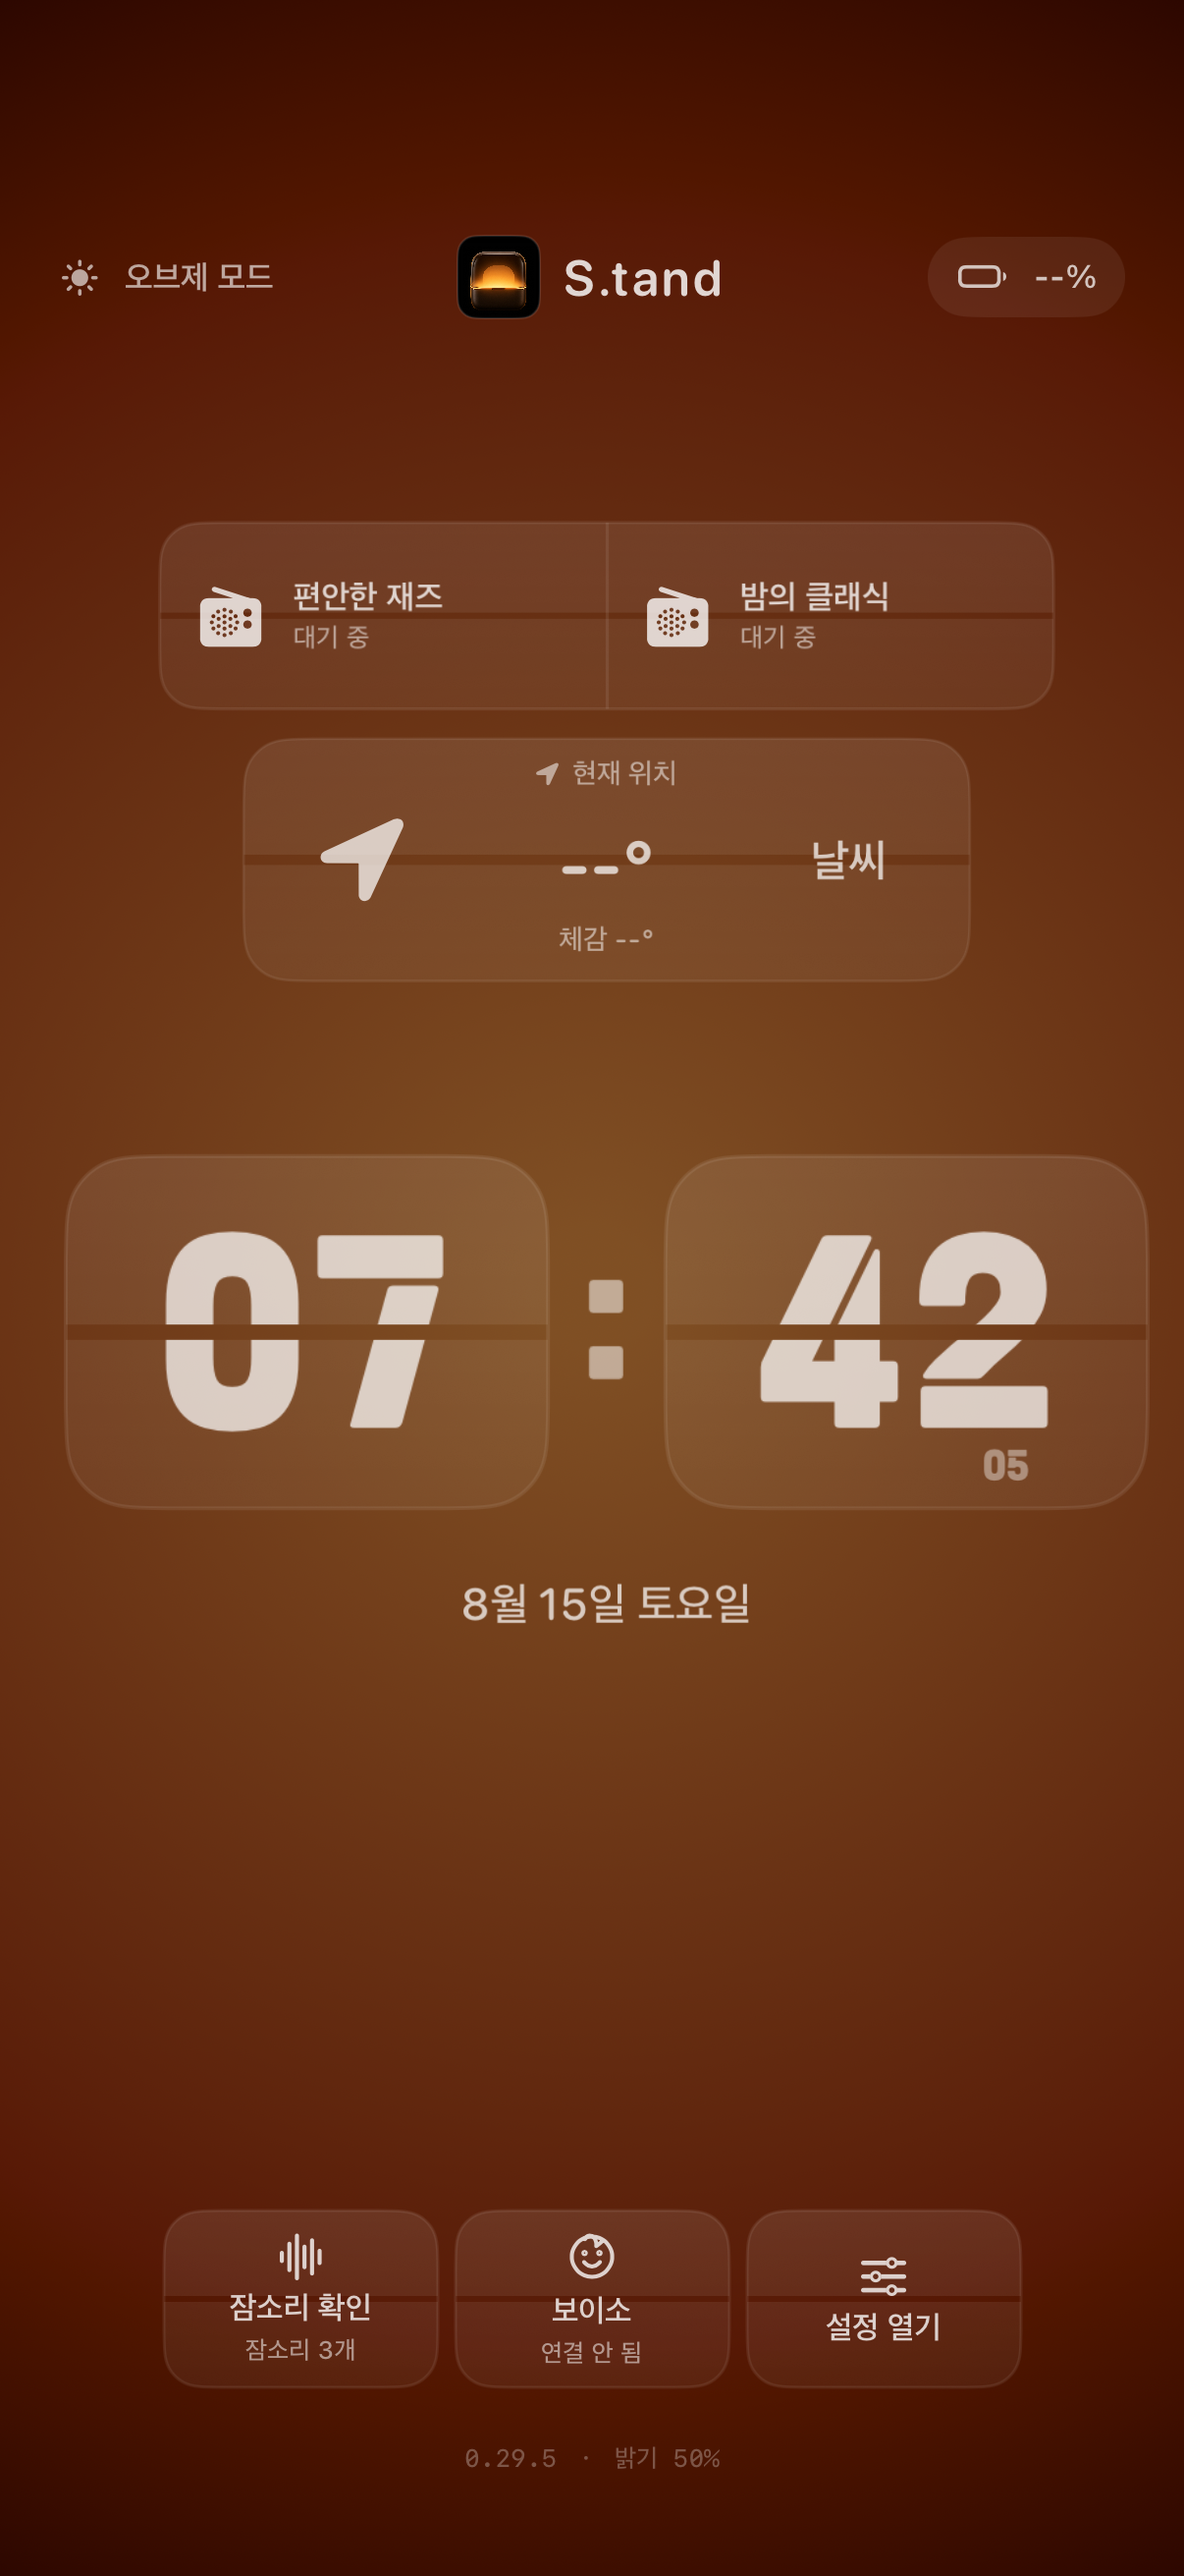
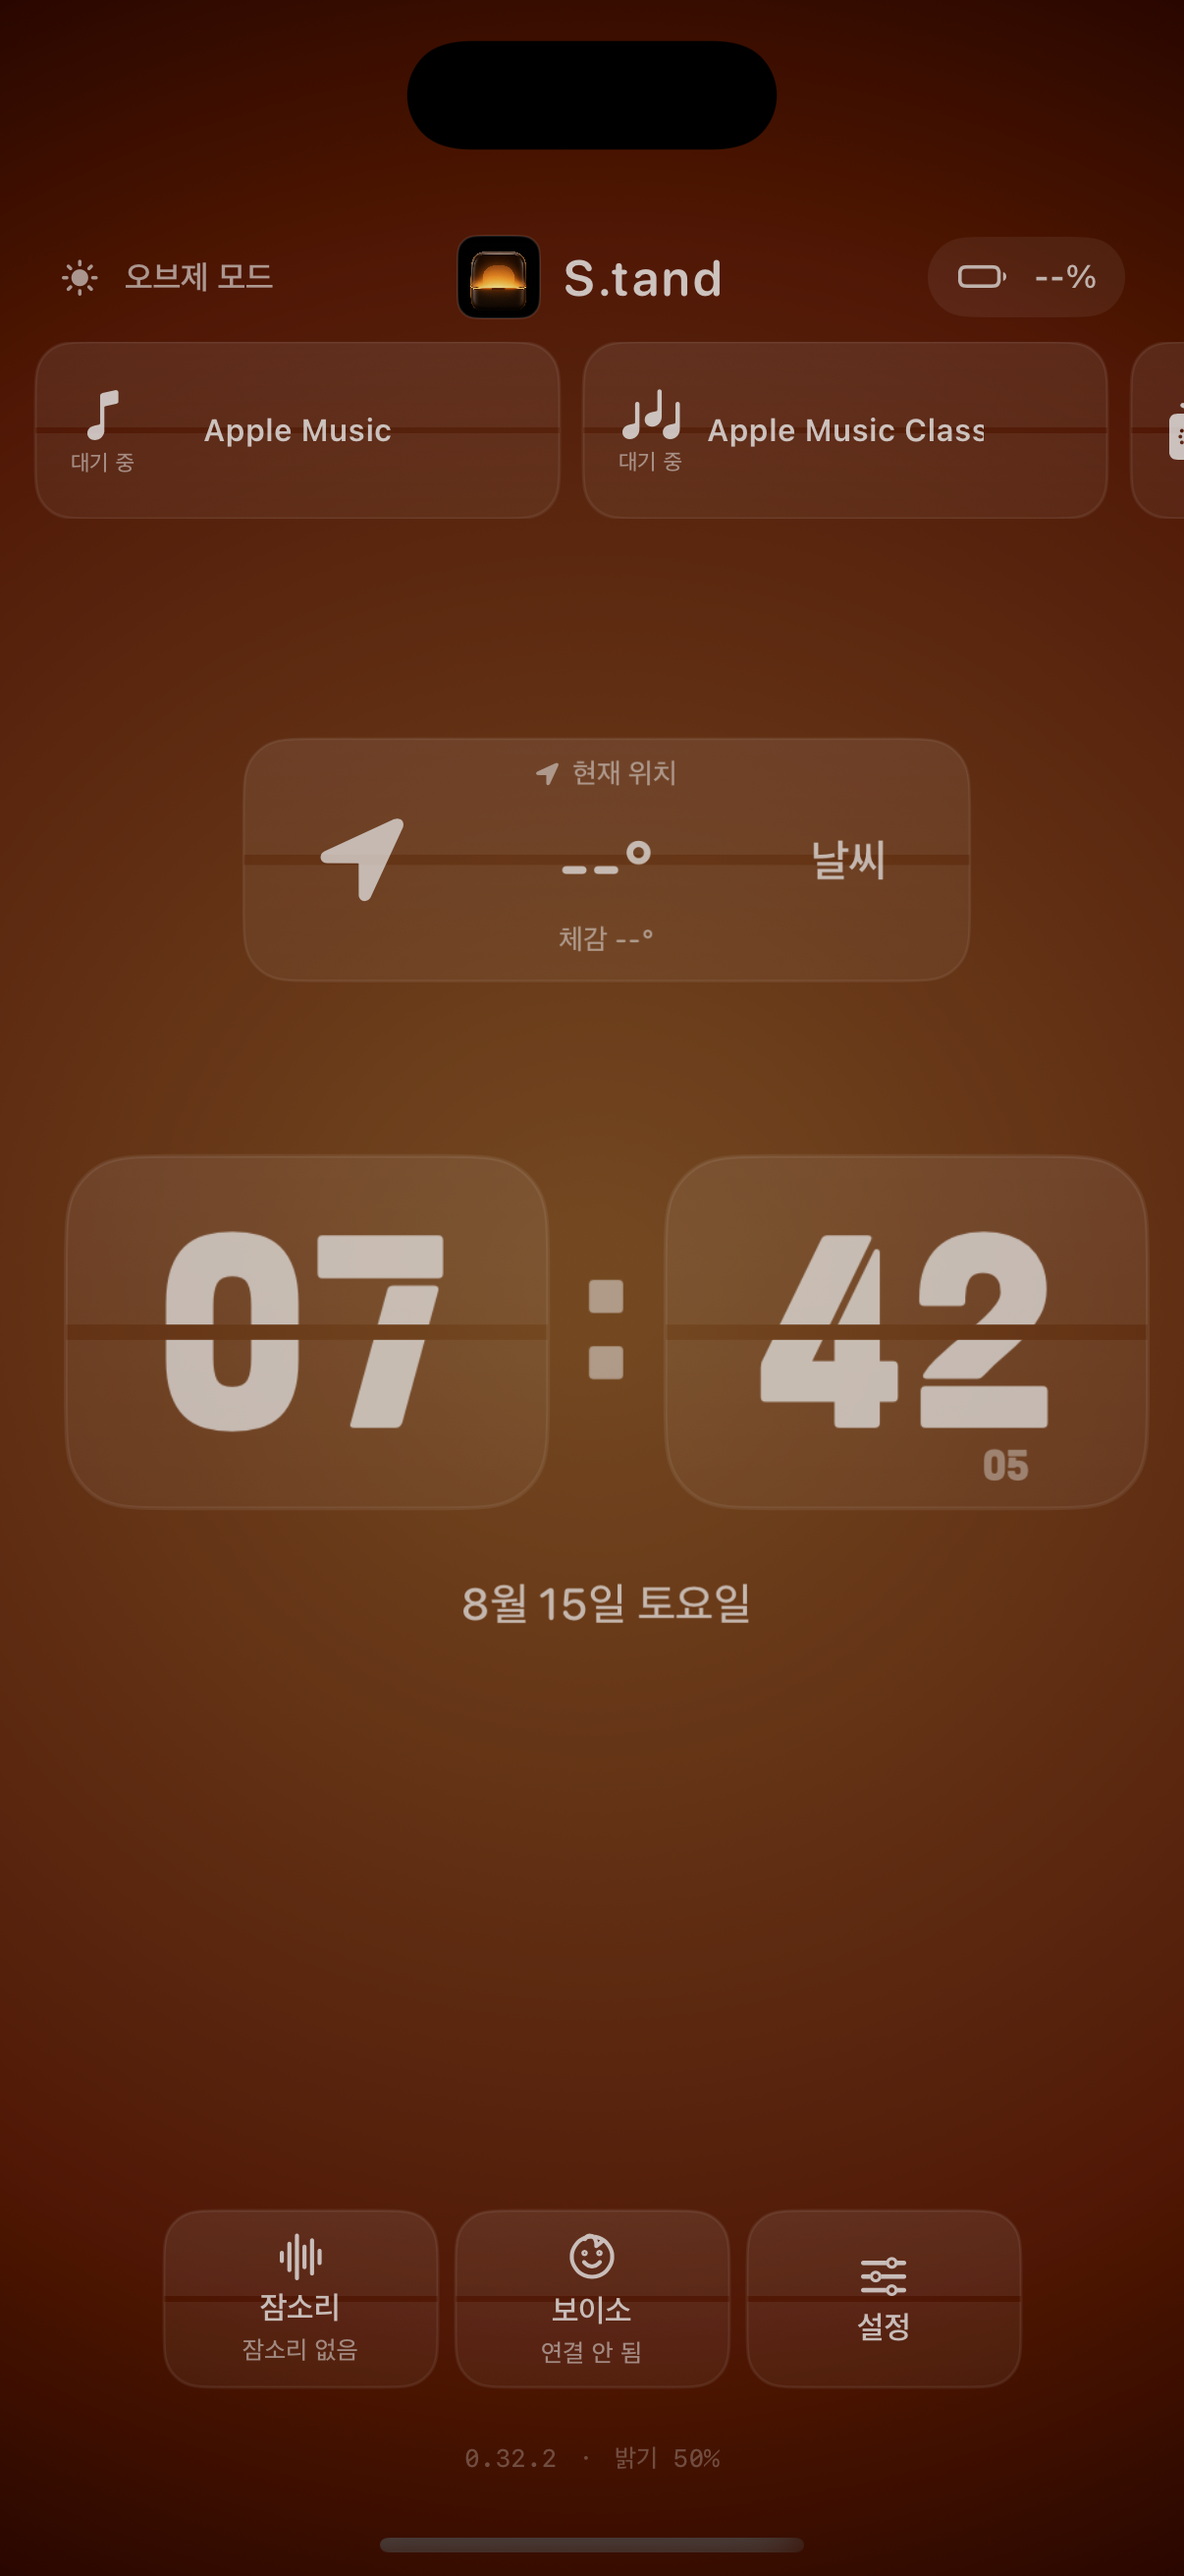
Publish S.tand 0.32.2 release information

diff --git a/app/data.ts b/app/data.ts
@@ -212,7 +212,7 @@ export const apps: AppData[] = [
     icon: "/apps/stand/icon.png",
     artwork: "clock",
     platforms: [
-      { name: "iOS · iPadOS", status: "완료", detail: "1.0.0 (0.31.0) · iOS·iPadOS 17+", availabilityNote: "TestFlight 업로드 완료" },
+      { name: "iOS · iPadOS", status: "완료", detail: "1.0.0 (0.32.2) · iOS·iPadOS 17+", availabilityNote: "TestFlight 업로드 완료" },
       {
         name: "macOS",
         status: "공개",
@@ -234,10 +234,10 @@ export const apps: AppData[] = [
       { title: "오브제 모드", body: "플립시계, 날씨와 배터리를 가로·세로 화면에 차분하게 표시합니다." },
       { title: "매이트와 화들짝", body: "어두운 환경에서 최소 밝기를 유지하고, 매이트 모드 진입 2분 뒤부터 움직임이나 큰소리에 화면과 조명이 반응합니다." },
       { title: "로컬 수면 기록", body: "코골이·잠꼬대·뒤척임 후보를 기기 안에 기록하고 타임라인으로 확인합니다." },
-      { title: "내 화면 만들기", body: "밝기, 시계 글꼴과 배치, 테마를 화면 방향에 맞게 편집합니다. Mac에서도 편집 화면의 인터넷 라디오 버튼을 눌러 채널을 바로 설정합니다." },
+      { title: "내 화면 만들기", body: "밝기, 시계 글꼴과 배치, 테마를 화면 방향에 맞게 편집합니다. Mac에서는 음악 카드를 오른쪽 클릭해 순서를 바꾸거나 인터넷 라디오를 바로 수정합니다." },
       { title: "보이소", body: "QR로 가까운 기기를 연결해 움직임과 소리 이벤트를 조용히 나눕니다." },
-      { title: "플랫폼별 음악 채널", body: "iPhone·iPad·Mac의 홈 버튼에는 Apple Music, Apple Music Classical 또는 인터넷 라디오를 배치합니다. Android의 두 버튼은 Spotify와 YouTube Music을 엽니다." },
-      { title: "Apple Music 실시간 이어듣기", body: "Music 앱이 이미 재생 중이면 S.tand를 다시 열어도 현재 곡과 재생·일시정지 상태를 이어 받습니다. 상태는 아이콘 아래에, 긴 곡 제목은 패널에서 왼쪽으로 흐르게 표시합니다." },
+      { title: "여섯 칸 음악 스트립", body: "로고 아래 한 줄에 Apple Music, Apple Music Classical과 인터넷 라디오 네 칸을 고정해 좌우로 넘깁니다. iPad와 Mac의 넓은 화면에서는 더 많은 채널이 한 번에 보입니다." },
+      { title: "Apple Music 재생 제어", body: "Apple Music과 Classical의 재생 상태를 분리해 유지합니다. 왼쪽 아이콘은 재생·일시정지를 바꾸고, 제목은 멈춘 상태에서 재생하며 재생 중에는 다음 곡으로 넘깁니다." },
       { title: "선택하는 백그라운드 동작", body: "백그라운드 모드는 권한 설정에서 켜고 끕니다. 기본값은 꺼짐이며, 꺼진 상태에서는 다른 앱으로 나갈 때 감지와 재생을 멈춥니다." },
       { title: "재현 가능한 화면 매치업", body: "한국어·서울 시간대·고정 시각 조건에서 iOS와 Android의 공통 화면 상태를 같은 의미 ID로 캡처하고 비교합니다." },
     ],
@@ -245,7 +245,7 @@ export const apps: AppData[] = [
       { title: "권한 선택", body: "카메라·마이크·대략적 위치를 왜 사용하는지 확인하고 필요한 권한만 허용합니다." },
       { title: "세 가지 모드", body: "오브제, 매이트와 화들짝 모드의 역할과 밝기·제스처를 익힙니다." },
       { title: "수면 기록", body: "날짜별 타임라인에서 후보 녹음을 듣고 병합·공유하거나 삭제합니다." },
-      { title: "음악 채널", body: "Apple 기기에서는 홈 버튼에 Apple Music·Apple Music Classical·인터넷 라디오를 정합니다. 현재곡이 있으면 재생 상태까지 이어 받고, 없으면 보관함 무작위 재생과 Apple 추천을 사용합니다. Android에서는 Spotify와 YouTube Music을 엽니다." },
+      { title: "음악 채널", body: "Apple 기기에서는 홈의 음악 스트립을 좌우로 넘겨 Apple Music·Apple Music Classical·인터넷 라디오를 선택합니다. 설정에서는 같은 목록에서 순서와 라디오 이름·주소를 함께 편집합니다. Android에서는 Spotify와 YouTube Music을 엽니다." },
       { title: "백그라운드 모드", body: "권한 설정의 세그먼트에서 켜짐 또는 꺼짐을 선택합니다. 기본 꺼짐은 앱을 벗어날 때 감지·재생을 중지하고, 필요할 때만 직접 켭니다." },
       { title: "보이소 연결", body: "공간을 만들고 QR로 참여해 볼 사람·말할 사람 역할을 선택합니다." },
       { title: "Mac에서 시작", body: "공증된 ZIP을 내려받아 압축을 풀고 S.tand 앱을 응용 프로그램 폴더로 옮긴 뒤 실행합니다. Developer ID 서명과 Apple 공증을 마쳐 macOS Gatekeeper 검증을 통과합니다." },
@@ -259,7 +259,7 @@ export const apps: AppData[] = [
       { state: "next", title: "장시간 실기기 검증", body: "오디오·센서 흐름과 접근성을 다양한 기기에서 추가 검증" },
     ],
     screenshots: [
-      { src: "/apps/stand/screens/ios-home-portrait.png", alt: "S.tand iOS 세로 오브제 시계" },
+      { src: "/apps/stand/screens/ios-home-portrait.png", alt: "Apple Music과 인터넷 라디오 스트립이 있는 S.tand iOS 세로 오브제 시계" },
       { src: "/apps/stand/screens/ios-sleep-report.png", alt: "S.tand iOS 수면 기록 리포트" },
       { src: "/apps/stand/screens/android-editor.png", alt: "S.tand Android 내 화면 편집" },
       { src: "/apps/stand/screens/ios-home-landscape-flat.png", alt: "S.tand iOS 가로 오브제 시계", layout: "landscape" },

diff --git a/app/testflight.ts b/app/testflight.ts
@@ -12,5 +12,5 @@ export type TestFlightBuild = {
 export const testFlightBuilds: TestFlightBuild[] = [
   { slug: "nasfinder", appName: "나스파인더", build: "202608190036", uploadedAt: "2026-08-19T00:42:50+09:00", inviteUrl: null },
   { slug: "hanclip", appName: "한클립", build: "3.11.55", uploadedAt: "2026-08-19T00:35:53+09:00", inviteUrl: null },
-  { slug: "stand", appName: "S.tand", build: "0.31.0", uploadedAt: "2026-08-15T20:27:50+09:00", inviteUrl: null },
+  { slug: "stand", appName: "S.tand", build: "0.32.2", uploadedAt: "2026-08-20T01:23:38+09:00", inviteUrl: null },
 ];
